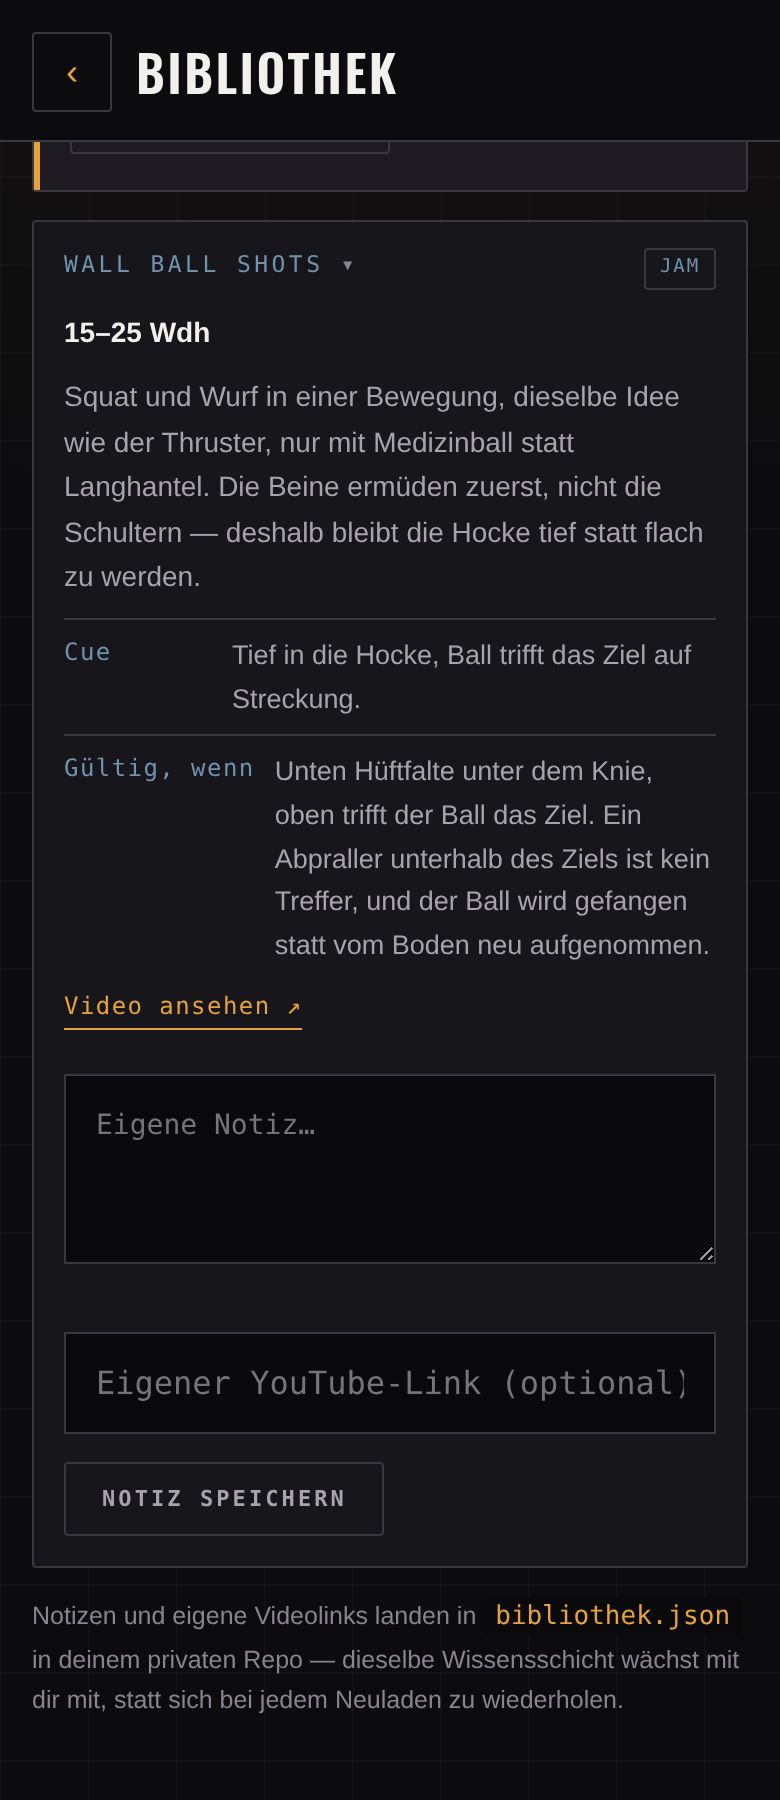
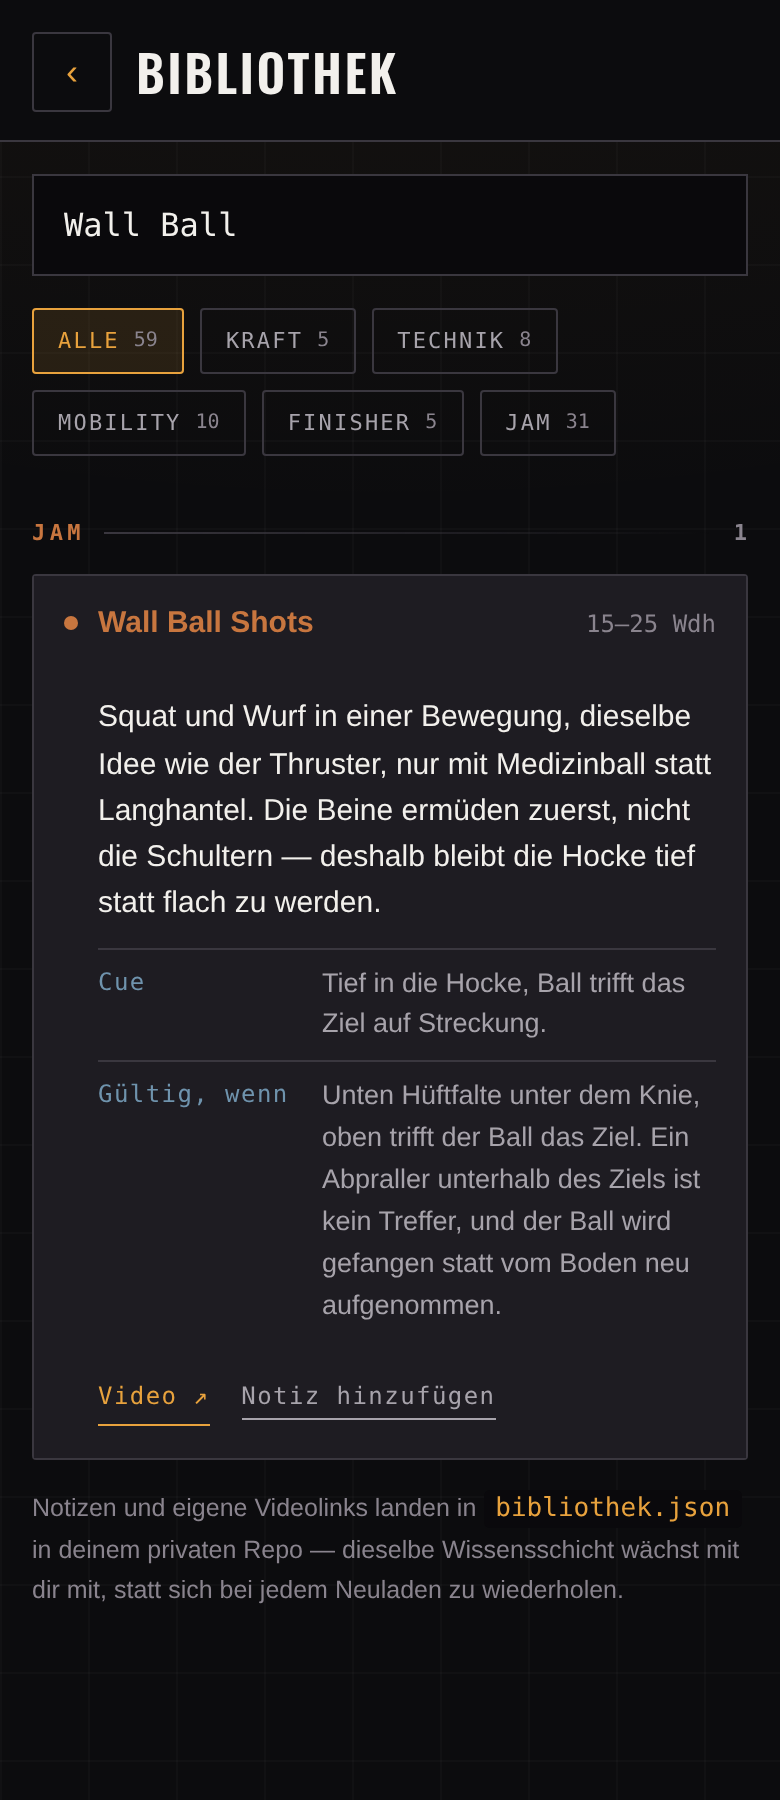
Bibliothek als Songbook: Kategorien, ruhige Zeilen, Notiz auf Wunsch
Statt einer offenen Zufallskarte mit Formular und siebzig gleichen
Grossbuchstaben-Zeilen: Gruppen je Kategorie mit Farbe und Anzahl, je
Uebung Name, Dosis und Cue; aufgeklappt Erklaerung, Fakten in einer
Spalte und "Wenn es klemmt". Die Uebung des Tages ist kompakt und
taeglich fest (neu wuerfeln moeglich), "Ansehen" klappt sie in der Liste
auf. Das Notizformular oeffnet erst auf Wunsch, eine gespeicherte Notiz
steht als Text bei der Uebung. Kategorien sind uebersetzt;
bibliothek.gruppiert und anzahlJeKategorie sind neu und getestet.

Claude-Session: https://claude.ai/code/session_01YZNsJwVbe3eTahUHjonpwS

diff --git a/js/app.js b/js/app.js
@@ -1795,17 +1795,26 @@ function zeigeBibliothek(kategorie = null) {
   show('bibliothek');
 }
 
+/* Die Bibliothek als Songbook: nach Kategorien gegliedert, jede mit ihrer
+   Farbe; eine Zeile je Uebung mit Name, Dosis und dem Cue darunter. Wer
+   aufklappt, bekommt Erklaerung, Fakten und — nur auf Wunsch — das
+   Notizformular. Vorher stand es offen ueber der ganzen Liste.         */
+
+const BIB_FARBE = { Kraft: 'var(--akzent)', Technik: 'var(--stahl)', Mobility: 'var(--gruen)',
+                    Finisher: 'var(--rot)', Jam: 'var(--rost)' };
+const bibKat = k => t(`bib.kat.${k}`);
+
 function bibDetailHtml(u) {
   const eintrag = bibliothek[u.id] || {};
   const video = sicherLink(eintrag.video) || B.youtubeSuche(u.name);
+  const fakt = (k, v) => v ? `<div class="kv"><span class="k">${k}</span><span class="v">${escHtml(v)}</span></div>` : '';
+  const fakten = fakt(t('bib.cue'), u.cue) + fakt(t('bib.standard'), u.standard) + fakt(t('bib.fehler'), u.fehler);
+  const hatNotiz = !!(eintrag.notiz || eintrag.video);
   return `
     <div class="bib-detail" data-id="${escHtml(u.id)}">
-      ${u.dosis ? `<p class="tagline"><b>${escHtml(u.dosis)}</b></p>` : ''}
-      ${u.aktuell ? `<div class="kv"><span class="k">${t('bib.aktuell')}</span><span class="v">${escHtml(u.aktuell)}</span></div>` : ''}
-      ${u.info ? `<p>${escHtml(u.info)}</p>` : ''}
-      ${u.cue ? `<div class="kv"><span class="k">${t('bib.cue')}</span><span class="v">${escHtml(u.cue)}</span></div>` : ''}
-      ${u.standard ? `<div class="kv"><span class="k">${t('bib.standard')}</span><span class="v">${escHtml(u.standard)}</span></div>` : ''}
-      ${u.fehler ? `<div class="kv"><span class="k">${t('bib.fehler')}</span><span class="v">${escHtml(u.fehler)}</span></div>` : ''}
+      ${u.aktuell ? `<p class="bib-aktuell">${t('bib.aktuell')} · <b>${escHtml(u.aktuell)}</b></p>` : ''}
+      ${u.info ? `<p class="bib-info">${escHtml(u.info)}</p>` : ''}
+      ${fakten ? `<div class="bib-fakten">${fakten}</div>` : ''}
       ${u.korrektur ? `<div class="korrektur">
         <p class="kh">${t('bib.korrektur')}</p>
         <p class="kw">${escHtml(u.korrektur.wenn)} ${escHtml(u.korrektur.warum)}</p>
@@ -1814,43 +1823,99 @@ function bibDetailHtml(u) {
         ${u.korrektur.uebungen.map(x =>
           `<div class="kv"><span class="k">${escHtml(x.dosis)}</span><span class="v">${escHtml(x.name)}</span></div>`).join('')}
       </div>` : ''}
+      ${eintrag.notiz ? `<div class="bib-notiz-text"><span class="kicker">${t('bib.deineNotiz')}</span>
+        <p>${escHtml(eintrag.notiz)}</p></div>` : ''}
+      <div class="bib-aktionen">
+        <a class="bib-video" href="${video}" target="_blank" rel="noopener noreferrer"
+           referrerpolicy="no-referrer">${t('bib.video')}</a>
+        <button type="button" class="bib-notiz-auf" aria-expanded="false">${t(hatNotiz ? 'bib.notizBearbeiten' : 'bib.notizNeu')}</button>
+      </div>
+      <div class="bib-form" hidden>
+        <textarea class="bib-notiz" rows="3" placeholder="${t('bib.notiz.ph')}">${escHtml(eintrag.notiz)}</textarea>
+        <input class="bib-eigenesvideo" type="text" placeholder="${t('bib.eigenesVideo.ph')}" value="${escHtml(eintrag.video)}">
+        <button class="btn ghost small bib-speichern">${t('bib.speichern')}</button>
+      </div>
       ${u.quelle && QUELLEN[u.quelle]
         ? `<p class="fine quelle">${t('bib.quelle')} ${escHtml(QUELLEN[u.quelle].lang)}</p>` : ''}
-      <a class="bib-video" href="${video}" target="_blank" rel="noopener noreferrer"
-         referrerpolicy="no-referrer">${t('bib.video')}</a>
-      <textarea class="bib-notiz" rows="3" placeholder="${t('bib.notiz.ph')}">${escHtml(eintrag.notiz)}</textarea>
-      <input class="bib-eigenesvideo" type="text" placeholder="${t('bib.eigenesVideo.ph')}" value="${escHtml(eintrag.video)}">
-      <button class="btn ghost small bib-speichern">${t('bib.speichern')}</button>
     </div>`;
+}
+
+/** Erster Satz — fuer die Uebung des Tages reicht ein Anriss. */
+const bibAnriss = text => {
+  const m = String(text || '').match(/^.*?[.!?](?=\s|$)/);
+  return m ? m[0] : String(text || '');
+};
+
+function bibZeileHtml(u) {
+  return `<details class="uebung" data-id="${escHtml(u.id)}" style="--kf:${BIB_FARBE[u.kategorie] || 'var(--muted)'}">
+    <summary>
+      <span class="u-name">${escHtml(u.name)}</span>
+      ${u.dosis ? `<span class="u-dosis">${escHtml(u.dosis)}</span>` : ''}
+      ${u.cue ? `<span class="u-kurz">${escHtml(u.cue)}</span>` : ''}
+    </summary>
+    <div class="u-body">${bibDetailHtml(u)}</div>
+  </details>`;
+}
+
+/** Eine Uebung in der Liste aufklappen und hinscrollen — notfalls ohne Filter. */
+function zeigeBibUebung(id) {
+  let el = document.querySelector(`#bib-liste .uebung[data-id="${CSS.escape(id)}"]`);
+  if (!el) { bibKategorie = null; $('bib-suche').value = ''; renderBibliothek(); el = document.querySelector(`#bib-liste .uebung[data-id="${CSS.escape(id)}"]`); }
+  if (!el) return;
+  el.open = true;
+  el.scrollIntoView({ block: 'start', behavior: 'smooth' });
 }
 
 function renderBibliothek() {
   const alle = B.alleUebungen(config, state);
   const treffer = B.suche(alle, $('bib-suche').value, bibKategorie);
+  const anzahl = B.anzahlJeKategorie(alle);
 
   $('bib-kategorien').innerHTML = ['Alle', ...B.KATEGORIEN].map(k => {
     const aktiv = k === 'Alle' ? !bibKategorie : k === bibKategorie;
-    return `<button class="${aktiv ? 'an' : ''}" data-k="${k}">${k === 'Alle' ? t('bib.alle') : k}</button>`;
+    const n = k === 'Alle' ? alle.length : anzahl[k];
+    return `<button class="${aktiv ? 'an' : ''}" data-k="${k}" aria-pressed="${aktiv}"
+      ${k === 'Alle' ? '' : `style="--kf:${BIB_FARBE[k]}"`}>${k === 'Alle' ? t('bib.alle') : escHtml(bibKat(k))}<span class="n">${n}</span></button>`;
   }).join('');
   $('bib-kategorien').querySelectorAll('button').forEach(b => {
     b.onclick = () => { bibKategorie = b.dataset.k === 'Alle' ? null : b.dataset.k; renderBibliothek(); };
   });
 
-  if (!bibZufall) bibZufall = B.zufaellig(alle);
-  $('bib-random').innerHTML = bibZufall ? `
-    <div class="card">
-      <div class="kicker">${escHtml(t('bib.zufaellig', { kat: bibZufall.kategorie }))}</div>
-      <div class="name">${escHtml(bibZufall.name)}</div>
-      ${bibDetailHtml(bibZufall)}
+  // Die Uebung des Tages: dieselbe den ganzen Tag, ausser man wuerfelt neu.
+  const tag = bibZufall || C.tagesAuswahl(alle, new Date(), 'bib');
+  const suchtGerade = !!$('bib-suche').value.trim() || !!bibKategorie;
+  $('bib-random').innerHTML = tag && !suchtGerade ? `
+    <div class="bib-tag" style="--kf:${BIB_FARBE[tag.kategorie] || 'var(--akzent)'}">
+      <div class="kicker">${escHtml(t('bib.desTages', { kat: bibKat(tag.kategorie) }))}</div>
+      <div class="bt-kopf"><span class="name">${escHtml(tag.name)}</span>${tag.dosis ? `<span class="u-dosis">${escHtml(tag.dosis)}</span>` : ''}</div>
+      ${tag.info ? `<p>${escHtml(bibAnriss(tag.info))}</p>` : ''}
+      <div class="bt-knoepfe">
+        <button type="button" class="btn small" id="bib-tag-auf">${t('bib.ansehen')}</button>
+        <button type="button" class="btn ghost small" id="bib-tag-neu" aria-label="${t('aria.neuWuerfeln')}">↻</button>
+      </div>
     </div>` : '';
+  if (tag && !suchtGerade) {
+    $('bib-tag-auf').onclick = () => zeigeBibUebung(tag.id);
+    $('bib-tag-neu').onclick = () => { bibZufall = B.zufaellig(alle.filter(u => u.id !== tag.id)); renderBibliothek(); };
+  }
 
-  $('bib-liste').innerHTML = treffer.length
-    ? treffer.map(u => `
-      <details class="info"><summary>${escHtml(u.name)}<span class="bib-kat">${escHtml(u.kategorie)}</span></summary>
-        <div class="body">${bibDetailHtml(u)}</div>
-      </details>`).join('')
-    : `<p class="fine">${t('bib.keine')}</p>`;
+  const gruppen = B.gruppiert(treffer);
+  $('bib-liste').innerHTML = gruppen.length
+    ? gruppen.map(g => `
+      <section class="bib-gruppe" style="--kf:${BIB_FARBE[g.kategorie]}">
+        <h2>${escHtml(bibKat(g.kategorie))}<span class="n">${g.uebungen.length}</span></h2>
+        <div class="bib-karte">${g.uebungen.map(bibZeileHtml).join('')}</div>
+      </section>`).join('')
+    : `<p class="lead">${t('bib.keine')}</p>`;
 
+  document.querySelectorAll('.bib-detail .bib-notiz-auf').forEach(btn => {
+    btn.onclick = () => {
+      const form = btn.closest('.bib-detail').querySelector('.bib-form');
+      form.hidden = !form.hidden;
+      btn.setAttribute('aria-expanded', String(!form.hidden));
+      if (!form.hidden) form.querySelector('.bib-notiz').focus();
+    };
+  });
   document.querySelectorAll('.bib-detail .bib-speichern').forEach(btn => {
     btn.onclick = () => {
       const box = btn.closest('.bib-detail');
@@ -1873,6 +1938,10 @@ async function speichereBibNotiz(id, notiz, video) {
     bibliothek = aktuell;
     S.cache({ bibliothek });
     banner(t('bib.gespeichert'), 'ok');
+    // Neu zeichnen, damit die Notiz als Text dasteht — die Uebung bleibt offen.
+    renderBibliothek();
+    const el = document.querySelector(`#bib-liste .uebung[data-id="${CSS.escape(id)}"]`);
+    if (el) el.open = true;
   } catch (e) {
     banner(t('bib.fehlgeschlagen', { msg: e.message }), 'err', 6000);
   }

diff --git a/css/style.css b/css/style.css
@@ -752,23 +752,68 @@ button.raus:active{border-color:var(--rost)}
 .chips button.an{border-color:var(--akzent);color:var(--akzent);background:var(--tint-akzent)}
 .chips button:disabled{opacity:.35;cursor:default}
 .gefuehl{margin-top:18px;padding-top:14px;border-top:1px solid var(--line)}
-#bib-random{margin-top:16px}
-#bib-random .name{font-size:1.375rem;margin-top:8px}
-#bib-liste{margin-top:14px}
-#bib-liste details.info{background:var(--panel);border:1px solid var(--line);margin-bottom:8px;border-radius:2px}
-#bib-liste details.info>summary{padding:13px 15px}
-.bib-kat{
-  float:right;font-size:0.59375rem;color:var(--stahl);letter-spacing:.1em;
-  border:1px solid var(--line);padding:2px 7px;border-radius:2px;
+/* ── Bibliothek als Songbook ──────────────────────────────────
+   Gegliedert nach Kategorien, jede mit ihrer Farbe (--kf). Eine Zeile je
+   Uebung: Name, Dosis rechts, der Cue leise darunter. Erst beim
+   Aufklappen kommt der Rest, das Notizformular erst auf Wunsch.       */
+#bib-kategorien button{display:inline-flex;align-items:center;gap:7px}
+#bib-kategorien button .n{font-size:0.625rem;color:var(--dim);letter-spacing:0}
+#bib-kategorien button.an{border-color:var(--kf,var(--akzent));color:var(--kf,var(--akzent));
+  background:color-mix(in srgb,var(--kf,var(--akzent)) 12%,transparent)}
+
+.bib-tag{
+  margin-top:16px;padding:16px 16px 14px;border:1px solid var(--line);border-top:3px solid var(--kf);
+  background:radial-gradient(120% 80% at 15% 0%,color-mix(in srgb,var(--kf) 14%,transparent),transparent 70%),var(--panel);
+  border-radius:2px;
 }
-.bib-detail .tagline{margin-top:0}
-.bib-video{
-  display:inline-block;font-family:var(--mono);font-size:0.75rem;letter-spacing:.06em;
-  color:var(--akzent);text-decoration:none;border-bottom:1px solid currentColor;margin:4px 0 10px;
+.bib-tag .kicker{color:var(--kf)}
+.bt-kopf{display:flex;align-items:baseline;justify-content:space-between;gap:12px;margin-top:6px}
+.bt-kopf .u-dosis{flex:none}
+.bt-kopf .name{font-size:1.75rem;margin:0;overflow-wrap:anywhere}
+.bib-tag p{margin:8px 0 0;color:var(--muted);font-size:0.9375rem;line-height:1.5}
+.bt-knoepfe{display:flex;gap:8px;margin-top:14px}
+.bt-knoepfe .btn{margin-top:0;width:auto;padding:10px 18px}
+
+.bib-gruppe h2{color:var(--kf)}
+.bib-gruppe h2 .n{order:2;margin-left:2px;color:var(--dim);letter-spacing:.05em}
+.bib-karte{background:var(--panel);border:1px solid var(--line);border-radius:2px}
+.uebung + .uebung{border-top:1px solid var(--line)}
+.uebung{scroll-margin-top:96px}   /* nicht unter den klebenden Kopf scrollen */
+.uebung > summary{
+  display:grid;grid-template-columns:auto minmax(0,1fr) auto;gap:2px 10px;align-items:baseline;
+  padding:12px 15px;cursor:pointer;list-style:none;
 }
+.uebung > summary::-webkit-details-marker{display:none}
+.uebung > summary::before{
+  content:'';width:7px;height:7px;border-radius:50%;background:var(--kf);align-self:center;
+}
+.u-name{color:var(--fg);font-size:0.9375rem}
+.u-dosis{font-family:var(--mono);font-size:0.75rem;color:var(--dim);text-align:right;max-width:min(16ch,40vw)}
+.u-kurz{grid-column:2 / -1;font-size:0.8125rem;color:var(--muted);
+  overflow:hidden;text-overflow:ellipsis;white-space:nowrap}
+.uebung[open] > summary{background:var(--panel2)}
+.uebung[open] .u-name{color:var(--kf);font-weight:600}
+.uebung[open] .u-kurz{display:none}
+.u-body{padding:4px 15px 16px 32px;background:var(--panel2)}
+
+.bib-aktuell{margin:6px 0 0;font-size:0.8125rem;color:var(--muted)}
+.bib-aktuell b{font-family:var(--mono);color:var(--akzent)}
+.bib-info{margin:8px 0 0;font-size:0.9375rem;line-height:1.55;color:var(--fg)}
+.bib-fakten{margin-top:10px}
+.bib-fakten .kv{display:grid;grid-template-columns:6.25rem minmax(0,1fr);gap:12px}
+.bib-notiz-text{margin-top:12px;padding:10px 12px;border-left:2px solid var(--kf);background:var(--panel)}
+.bib-notiz-text p{margin:4px 0 0;font-size:0.875rem;white-space:pre-wrap}
+.bib-aktionen{display:flex;gap:16px;align-items:center;margin-top:14px;flex-wrap:wrap}
+.bib-video, .bib-notiz-auf{
+  font-family:var(--mono);font-size:0.75rem;letter-spacing:.06em;background:none;border:0;padding:4px 0;
+  color:var(--akzent);text-decoration:none;border-bottom:1px solid currentColor;cursor:pointer;
+}
+.bib-notiz-auf{color:var(--muted)}
+.bib-form{margin-top:10px}
 .bib-notiz{min-height:70px;font-size:0.875rem}
 .bib-eigenesvideo{font-size:0.8125rem;padding:12px}
-.bib-detail .bib-speichern{margin-top:2px;width:auto;padding:11px 18px}
+.bib-form .bib-speichern{margin-top:2px;width:auto;padding:11px 18px}
+.bib-detail .quelle{margin-top:12px}
 
 /* ── Programm einrichten ──────────────────────────────────── */
 /* Die Wochentage sollen als Reihe stehen und nicht je nach Sprache

diff --git a/js/i18n.js b/js/i18n.js
@@ -724,13 +724,22 @@ export const TEXTE = {
     'bib.titel': 'Bibliothek',
     'bib.suche.ph': 'Übung suchen…',
     'bib.alle': 'Alle',
-    'bib.zufaellig': 'Zufällig aus der Bibliothek · {kat}',
+    'bib.desTages': 'Übung des Tages · {kat}',
+    'bib.ansehen': 'Ansehen',
+    'bib.deineNotiz': 'Deine Notiz',
+    'bib.notizNeu': 'Notiz hinzufügen',
+    'bib.notizBearbeiten': 'Notiz bearbeiten',
+    'bib.kat.Kraft': 'Kraft',
+    'bib.kat.Technik': 'Technik',
+    'bib.kat.Mobility': 'Mobility',
+    'bib.kat.Finisher': 'Finisher',
+    'bib.kat.Jam': 'Jam',
     'bib.keine': 'Keine Übung gefunden.',
     'bib.aktuell': 'Aktuell',
     'bib.cue': 'Cue',
     'bib.standard': 'Gültig, wenn',
     'bib.fehler': 'Fehler',
-    'bib.video': 'Video ansehen ↗',
+    'bib.video': 'Video ↗',
     'bib.notiz.ph': 'Eigene Notiz…',
     'bib.eigenesVideo.ph': 'Eigener YouTube-Link (optional)',
     'bib.speichern': 'Notiz speichern',
@@ -1508,13 +1517,22 @@ export const TEXTE = {
     'bib.titel': 'Library',
     'bib.suche.ph': 'Search exercise…',
     'bib.alle': 'All',
-    'bib.zufaellig': 'Random from the library · {kat}',
+    'bib.desTages': 'Exercise of the day · {kat}',
+    'bib.ansehen': 'Open',
+    'bib.deineNotiz': 'Your note',
+    'bib.notizNeu': 'Add a note',
+    'bib.notizBearbeiten': 'Edit note',
+    'bib.kat.Kraft': 'Strength',
+    'bib.kat.Technik': 'Technique',
+    'bib.kat.Mobility': 'Mobility',
+    'bib.kat.Finisher': 'Finisher',
+    'bib.kat.Jam': 'Jam',
     'bib.keine': 'No exercise found.',
     'bib.aktuell': 'Current',
     'bib.cue': 'Cue',
     'bib.standard': 'Counts when',
     'bib.fehler': 'Mistake',
-    'bib.video': 'Watch video ↗',
+    'bib.video': 'Video ↗',
     'bib.notiz.ph': 'Your own note…',
     'bib.eigenesVideo.ph': 'Your own YouTube link (optional)',
     'bib.speichern': 'Save note',

diff --git a/tests/bibliothek.test.js b/tests/bibliothek.test.js
@@ -210,4 +210,23 @@ const abpraller = B.suche(alles, 'Abpraller');
 ok('"Abpraller" findet den Wall Ball',
    abpraller.some(u => u.id === 'wod:wallball'), abpraller.map(u => u.id).join());
 
+
+print('\n--- Gruppiert ---');
+{
+  const liste = [
+    { id: 'a', name: 'Wall Ball', kategorie: 'Jam' },
+    { id: 'b', name: 'Back Squat', kategorie: 'Kraft' },
+    { id: 'c', name: 'Air Squat', kategorie: 'Jam' }
+  ];
+  const g = B.gruppiert(liste);
+  eq('Reihenfolge der Kategorien, nicht der Liste', g.map(x => x.kategorie).join(), 'Kraft,Jam');
+  eq('leere Kategorien fallen weg', g.length, 2);
+  eq('innerhalb bleibt die Reihenfolge der Liste', g[1].uebungen.map(u => u.id).join(), 'a,c');
+  eq('ohne Treffer keine Gruppen', B.gruppiert([]).length, 0);
+  const n = B.anzahlJeKategorie(liste);
+  eq('Zahl je Kategorie', `${n.Kraft}/${n.Jam}/${n.Technik}`, '1/2/0');
+  const echt = B.alleUebungen({}, {});
+  eq('alle echten Uebungen landen in einer Gruppe', B.gruppiert(echt).reduce((s, x) => s + x.uebungen.length, 0), echt.length);
+}
+
 print(`\n========== Gesamt: ${pass} bestanden, ${fail} fehlgeschlagen ==========\n`);

diff --git a/js/bibliothek.js b/js/bibliothek.js
@@ -54,6 +54,24 @@ export function alleUebungen(config = {}, state = {}) {
 }
 
 /**
+ * Nach Kategorie gruppiert, in der festen Reihenfolge der Kategorien und
+ * innerhalb alphabetisch (wie alleUebungen). Leere Gruppen fallen weg —
+ * eine Ueberschrift ueber nichts ist kein Ergebnis.
+ */
+export function gruppiert(liste = []) {
+  return KATEGORIEN
+    .map(kategorie => ({ kategorie, uebungen: liste.filter(u => u.kategorie === kategorie) }))
+    .filter(g => g.uebungen.length);
+}
+
+/** Wie viele Uebungen je Kategorie — fuer die Zahlen an den Filtern. */
+export function anzahlJeKategorie(liste = []) {
+  const out = {};
+  for (const k of KATEGORIEN) out[k] = liste.filter(u => u.kategorie === k).length;
+  return out;
+}
+
+/**
  * Volltextsuche ueber Name, Erklaerung, Cue, Fehler und die Korrekturen.
  * Letztere gehoeren dazu, weil man eine Uebung auch ueber ihr Problem sucht:
  * wer "Lockout" eingibt, will den Strict Press finden.

diff --git a/sw.js b/sw.js
@@ -1,6 +1,6 @@
 // Nur die App-Huelle wird gecacht. Trainingsdaten laufen immer live ueber
 // die GitHub-API — veraltete Gewichte im Studio waeren schlimmer als ein Ladebalken.
-const CACHE = 'setlist-2026-10-04.3';
+const CACHE = 'setlist-2026-10-04.4';
 const SHELL = ['./', 'index.html', 'css/style.css', 'js/app.js', 'js/program.js', 'js/store.js', 'js/intervals.js', 'js/coach.js', 'js/content.js', 'js/wod.js', 'js/stats.js', 'js/bibliothek.js', 'js/i18n.js', 'js/geraete.js', 'js/boot.js', 'js/sicher.js', 'js/aktualisierung.js', 'js/einrichten.js', 'js/persoenlich.js', 'js/unplugged.js', 'js/verletzung.js', 'js/merch.js', 'manifest.json', 'assets/fonts/oswald-latin-var.woff2', 'icons/icon-512.png'];
 
 self.addEventListener('install', e => {

diff --git a/CHANGELOG.md b/CHANGELOG.md
@@ -10,6 +10,25 @@ sonst merkt die installierte App nichts von einer neuen Fassung.
 
 ---
 
+## 2026-10-04.4
+
+### Geändert
+- **Die Bibliothek als Songbook.** Vorher standen dort eine immer offene Zufallskarte mit
+  Notizformular und darunter rund siebzig gleich aussehende Zeilen in Großbuchstaben,
+  alphabetisch über alle Kategorien gemischt. Gleichnamige Übungen (Battle Ropes als
+  Finisher und als Jam) waren kaum auseinanderzuhalten.
+  - **Nach Kategorien gegliedert:** Kraft, Technik, Mobility, Finisher, Jam, jede mit
+    eigener Farbe, Überschrift und Anzahl. Die Filter zeigen die Zahlen ebenfalls; im
+    Englischen heißen die Kategorien jetzt auch englisch.
+  - **Ruhige Zeilen:** Name in normaler Schrift, Dosis rechts, der Cue leise darunter.
+    Aufgeklappt folgen Erklärung, Cue, Bewegungsstandard, typischer Fehler und „Wenn es
+    klemmt“ in einer sauberen Spalte.
+  - **Übung des Tages** statt Zufall bei jedem Öffnen: kompakt mit erstem Satz,
+    „Ansehen“ klappt sie in der Liste auf, ↻ würfelt neu. Während einer Suche oder mit
+    Filter tritt sie zurück.
+  - **Notizen nur auf Wunsch:** „Notiz hinzufügen“ öffnet das Formular. Eine
+    gespeicherte Notiz steht danach als Text bei der Übung, und die Übung bleibt offen.
+
 ## 2026-10-04.3
 
 ### Geändert

diff --git a/README.md b/README.md
@@ -4,7 +4,7 @@
 
 <p align="center">
   <a href="https://cyphomat.github.io/setlist/"><img alt="App öffnen" src="https://img.shields.io/badge/App-öffnen-e8a23d?style=for-the-badge&labelColor=17161b"></a>
-  <img alt="Tests" src="https://img.shields.io/badge/Tests-1429%20grün-7fa65c?style=for-the-badge&labelColor=17161b">
+  <img alt="Tests" src="https://img.shields.io/badge/Tests-1435%20grün-7fa65c?style=for-the-badge&labelColor=17161b">
   <img alt="Build" src="https://img.shields.io/badge/Build-keiner-6f93ad?style=for-the-badge&labelColor=17161b">
   <img alt="Abhängigkeiten" src="https://img.shields.io/badge/Abhängigkeiten-0-a7a3ab?style=for-the-badge&labelColor=17161b">
 </p>

diff --git a/README.en.md b/README.en.md
@@ -4,7 +4,7 @@
 
 <p align="center">
   <a href="https://cyphomat.github.io/setlist/"><img alt="Open app" src="https://img.shields.io/badge/App-open-e8a23d?style=for-the-badge&labelColor=17161b"></a>
-  <img alt="Tests" src="https://img.shields.io/badge/Tests-1429%20green-7fa65c?style=for-the-badge&labelColor=17161b">
+  <img alt="Tests" src="https://img.shields.io/badge/Tests-1435%20green-7fa65c?style=for-the-badge&labelColor=17161b">
   <img alt="Build" src="https://img.shields.io/badge/Build-none-6f93ad?style=for-the-badge&labelColor=17161b">
   <img alt="Dependencies" src="https://img.shields.io/badge/Dependencies-0-a7a3ab?style=for-the-badge&labelColor=17161b">
 </p>
